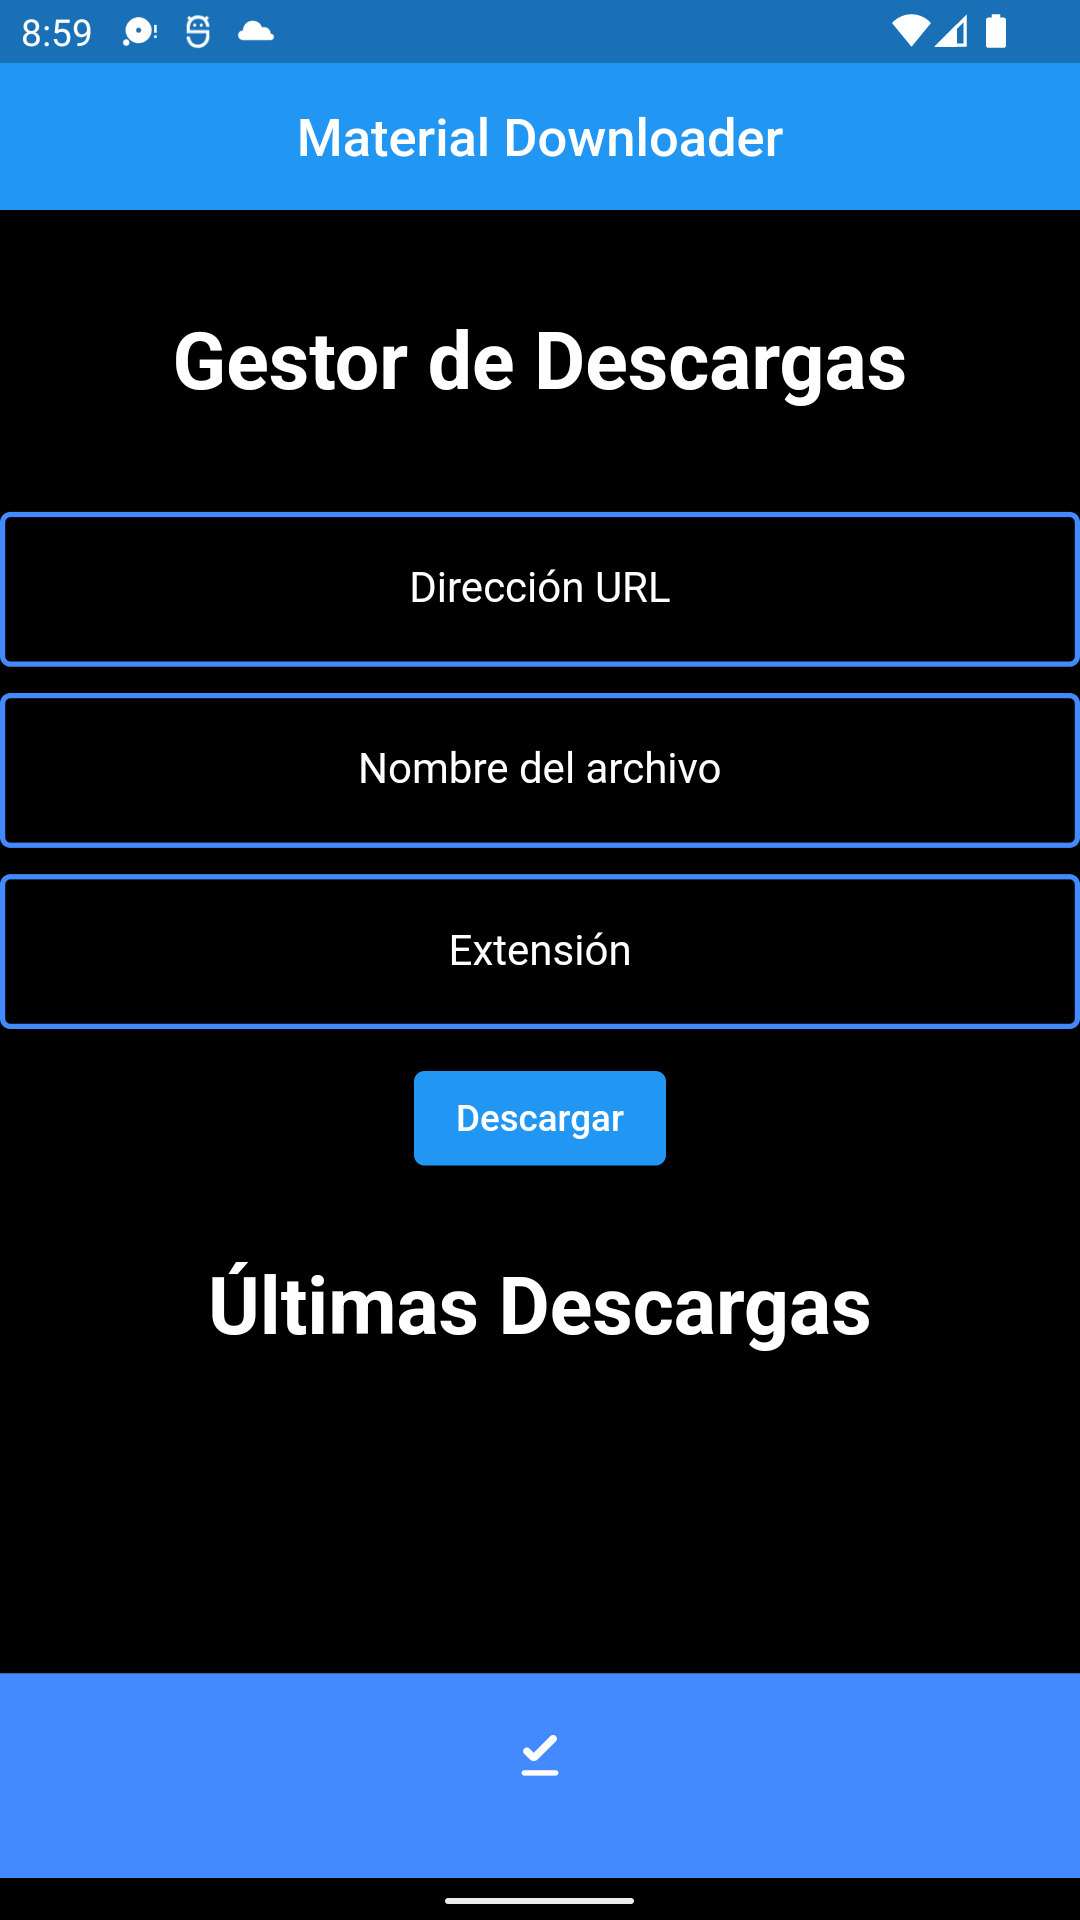
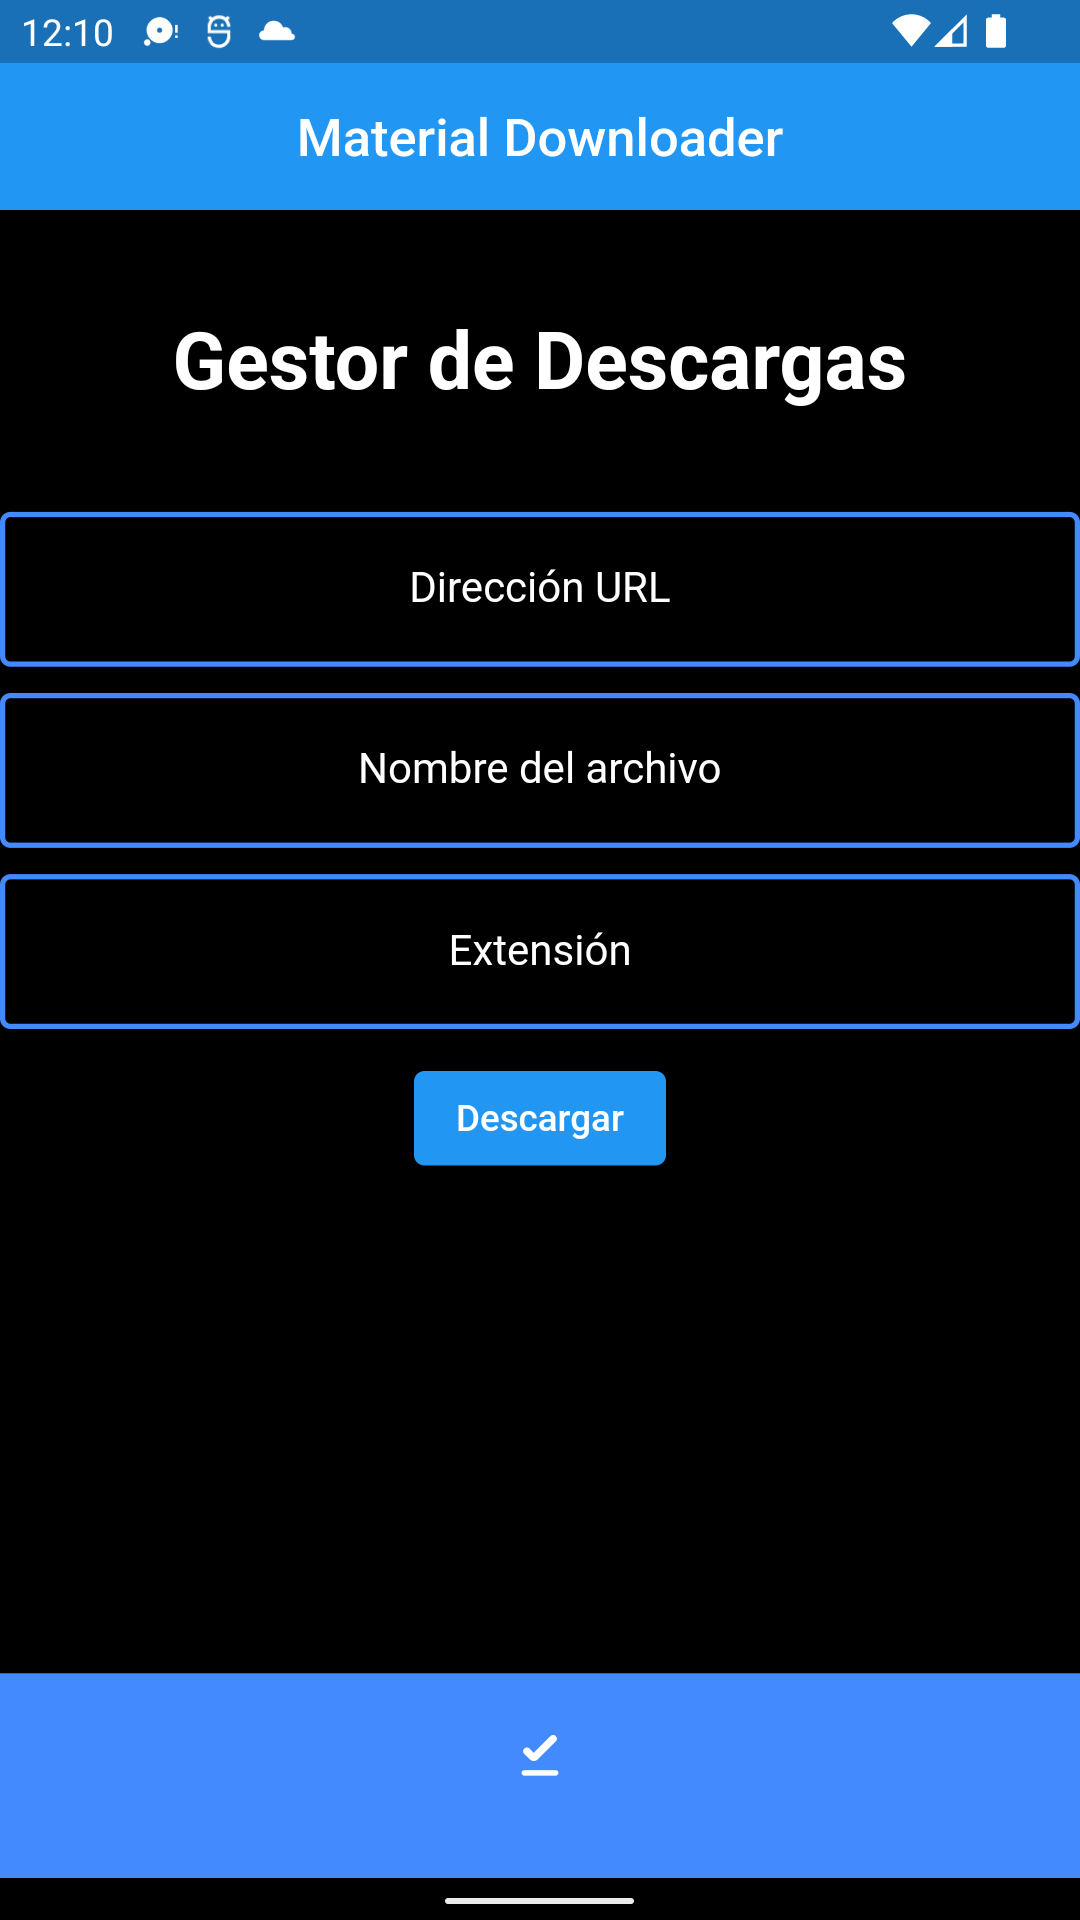
Refresh most app features
- Fixed several issues with last downloads list
- Refresh logo and app label name
- Introduce a Refresh indicator to clean downloads list
- onPress on delete icon removes the file from sdcard/downloads
- More

Changed region(s): [[0.1833, 0.6562, 0.7944, 0.7188], [0.0306, 0.0, 0.275, 0.0312]]

diff --git a/lib/Download.dart b/lib/Download.dart
@@ -52,6 +52,31 @@ class _DownloadState extends State<Download>{
 
   }
 
+  deleteFile(String file) async {
+    // Delete file
+    File("sdcard/download/$file").deleteSync();
+
+    ScaffoldMessenger.of(context).showSnackBar(SnackBar(
+      content: Text("Se ha borrado el siguiente archivo del dispositivo\n$file"),
+    ));
+  }
+
+  cleanDownloads() async {
+
+    setState(() async {
+      myDownloads = {};
+      writeJson();
+      downloadsName = [];
+      downloadsUrl = [];
+      readJson();
+      updateDownloadList();
+    });
+
+    ScaffoldMessenger.of(context).showSnackBar(SnackBar(
+      content: Text("Se ha limpiado el historial de descargas"),
+    ));
+  }
+
   @override
   void initState(){
     downloadsName = [];
@@ -85,6 +110,8 @@ class _DownloadState extends State<Download>{
           ),
       SizedBox(height: 40,),
       Expanded(
+          child: RefreshIndicator(
+
          child : ListView.builder(
            key: UniqueKey(),
               itemCount: downloadsUrl.length,
@@ -100,6 +127,7 @@ class _DownloadState extends State<Download>{
                         onPressed: () {
                           setState(() async {
                             await myDownloads.remove(downloadsUrl[index]);
+                            deleteFile(downloadsName[index]);
                             downloadsName.remove(index);
                             downloadsUrl.remove(index);
                             writeJson();
@@ -117,9 +145,18 @@ class _DownloadState extends State<Download>{
 
                     );
               }
-          )
-      ),
-      ]
+          ),
+          onRefresh: () {// Read contacts agaim
+    return Future.delayed(
+    Duration(seconds: 1),
+    () {
+      setState(() async {
+        cleanDownloads();
+    });
+         }
+         );
+    }
+      ))]
       ),
       bottomNavigationBar: BottomNavigationBar(
         backgroundColor: Colors.blueAccent,

diff --git a/lib/Downloader.dart b/lib/Downloader.dart
@@ -290,8 +290,6 @@ class _DownloaderState extends State<Downloader>{
             onPressed: () async {
 
                 setState(() {
-                  currentDownloadUrl = [];
-                  currentDownloadName = [];
                   writeJson(myUrl.text, myFileName.text+"."+myExtension.text); // Add new value to map
                   readJson(); // Read udpated map
                   updateDownloadList(); // Update lists
@@ -307,13 +305,12 @@ class _DownloaderState extends State<Downloader>{
               myFileName.text = "";
               myExtension.text = "";
             },
-
           ),
 
           SizedBox(height: 30),
 
           if (currentDownloadUrl.length > 0)
-          Text("Descarga Actual", style: TextStyle(color: Colors.white, fontSize: 30, fontWeight: FontWeight.bold),),
+          Text("Descargas Actuales", style: TextStyle(color: Colors.white, fontSize: 30, fontWeight: FontWeight.bold),),
 
           SizedBox(height: 10),
 
@@ -333,8 +330,8 @@ class _DownloaderState extends State<Downloader>{
                       myDownloads.remove(currentDownloadUrl[index]);
                       updateDownloadList();
                       readJson();
-                      currentDownloadUrl = [];
-                      currentDownloadName = [];
+                      currentDownloadUrl.remove(currentDownloadUrl[index]);
+                      currentDownloadName.remove(currentDownloadName[index]);
                     });
 
                 },

diff --git a/README.md b/README.md
@@ -31,8 +31,4 @@ dependencies :
 <img src="screens/screen_1.png"/>
 <img src="screens/screen_2.png"/>
 <img src="screens/screen_3.png"/>
-<img src="screens/screen_4.png"/>
-<img src="screens/screen_5.png"/>
-<img src="screens/screen_6.png"/>
 
- # Download
